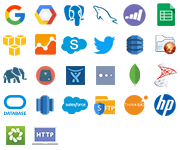
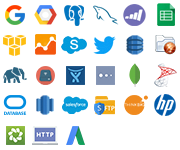
upd: add model, views, form, template for AdwordsDataSource

Changed region(s): [[0.3611, 0.8267, 0.4722, 0.9867]]

diff --git a/dmp/data_loader/templates/datasource/datasource_forms/adwords.html b/dmp/data_loader/templates/datasource/datasource_forms/adwords.html
@@ -1,0 +1,99 @@
+{% extends 'layout.html' %}
+{% load staticfiles %}
+{% block page_script %}
+<script src="{% static "js/datasource_crud.js" %}" type="text/javascript"></script>
+{% endblock %}
+{% block content %}
+
+    <div class="page datasources-add">
+        <div class="page-title">
+            <div class="content">
+                <h1>{% if form.instance.pk %}Update{% else %}Add{% endif %} Data Source - {{ provider.name }}</h1>
+            </div>
+        </div>
+
+        <div class="page-content">
+            <div class="content">
+
+                <div class="box">
+                    <div class="form-note">
+                        <span class="fa fa-lock"></span>
+                        All sensitive information is encrypted before stored
+                    </div>
+                    <div class="row">
+                        <div class="col col-50">
+                            <form id="form-create" method="POST" action="" enctype="multipart/form-data">
+                                    {% for error in form.non_field_errors %}
+                                        <p class="errors">{{ error }}</p>
+                                    {% endfor %}
+                                {% csrf_token %}
+                                <div class="form-row">
+                                    <div class="form-label">Data Source Name:</div>
+                                    {% for error in form.name.errors %}
+                                        <p class="errors">{{ error }}</p>
+                                    {% endfor %}
+                                    {{ form.name }}
+                                </div>
+                                <div class="form-row">
+                                    <div class="form-label">Conditions:</div>
+                                    {% for error in details_form.conditions.errors %}
+                                        <p class="errors">{{ error }}</p>
+                                    {% endfor %}
+                                    {{ details_form.conditions }}
+                                </div>
+                                <div class="form-row">
+                                    <div class="form-label">
+                                        Fields:
+                                    </div>
+                                    {% for error in details_form.field_list.errors %}
+                                        <p class="errors">{{ error }}</p>
+                                    {% endfor %}
+                                    {{ details_form.field_list }}
+                                    <div class="form-note">
+                                        <b>Note:</b> Field values must be separated by a comma (i.e. "CampaignId, CampaignName").<br>
+                                        Default values: CampaignId, CampaignName, CampaignStatus, Year, Month,
+                                        ClickType, ActiveViewCpm, AllConversions.
+                                    </div>
+                                </div>
+                                <div class="form-row">
+                                    <div class="form-label">Report:</div>
+                                    {% for error in details_form.report_type.errors %}
+                                        <p class="errors">{{ error }}</p>
+                                    {% endfor %}
+                                    {{ details_form.report_type }}
+                                    <div class="form-note">
+                                        <b>Note:</b> Default - CAMPAIGN_PERFORMANCE_REPORT.
+                                    </div>
+                                </div>
+                                <div class="form-row">
+                                    <div class="form-label">Date:</div>
+                                    {% for error in details_form.date_range.errors %}
+                                        <p class="errors">{{ error }}</p>
+                                    {% endfor %}
+                                    {{ details_form.date_range }}
+                                    <div class="form-note">
+                                        <b>Note:</b> Default - LAST_30_DAYS.
+                                    </div>
+                                </div>
+
+                                <div class="form-row">
+                                    <div class="form-label">Key file:</div>
+                                    <div class="form-file">
+                                        <span id="file-text-lable" class="form-placeholder">{% if details_form.instance.oauth_key_file %} {{ details_form.instance.filename }} {% else %}Upload OAuth key file...{% endif %}</span>
+                                        {% for error in details_form.oauth_key_file.errors %}
+                                            <p class="errors">{{ error }}</p>
+                                        {% endfor %}
+                                        {{ details_form.oauth_key_file }}
+                                    </div>
+                                </div>
+                                <div class="form-buttons">
+                                    <a href="javascript:void(0);" onclick="document.getElementById('form-create').submit(); return false;" class="button button-green">{% if form.instance.pk %}Update{% else %}Save & Collect{% endif %}</a>
+                                </div>
+                            </form>
+                        </div>
+                    </div>
+                </div>
+            </div>
+        </div>
+    </div>
+{% endblock %}

diff --git a/dmp/data_loader/static/css/style.css b/dmp/data_loader/static/css/style.css
@@ -443,6 +443,11 @@ h1, h2, h3 {
 .icon-dynamodb{
 	background-position: -30px -90px;
 }
+
+.icon-adwords{
+	background-position: -60px -120px;
+}
+
 /* boxes */
 .box {
 	background: #fff;

diff --git a/dmp/data_loader/forms.py b/dmp/data_loader/forms.py
@@ -2,7 +2,7 @@ from django import forms
 from data_loader.models import DataSource, DataFlowSettings, AnalyticsDataSource, SpreadsheetsDataSource, \
     PostgreSQLDataSource, VerticaDataSource, JDBCDataSource, OracleDBDataSource, MongoDBDataSource, FTPDataSource, \
     SalesforceDataSource, HadoopDataSource, GoogleCloudDataSource, MarketoDataSource, DynamoDBDataSource, \
-    HTTPDataSource, TwitterDataSource, ZendeskDataSource
+    HTTPDataSource, TwitterDataSource, ZendeskDataSource, AdwordsDataSource
 from django.utils.translation import ugettext_lazy as _
 from django.core.validators import FileExtensionValidator
 
@@ -598,3 +598,37 @@ class ZendeskDataSourceForm(forms.ModelForm):
     class Meta:
         model = ZendeskDataSource
         fields = ('login_url', 'username', 'password', 'target')
+
+
+class AdwordsDataSourceForm(forms.ModelForm):
+
+    conditions = forms.CharField(max_length=255, widget=forms.TextInput(
+        attrs={'class': 'form-input',
+               'placeholder': _('Query condition list (e.g. - "CampaignStatus IN")'),
+               'maxlength': 255}))
+
+    field_list = forms.CharField(max_length=255, widget=forms.TextInput(
+        attrs={'class': 'form-input',
+               'placeholder': _('Field list to query'),
+               'maxlength': 255}))
+
+    date_range = forms.CharField(max_length=255, widget=forms.TextInput(
+        attrs={'class': 'form-input',
+               'placeholder': _('Date range'),
+               'maxlength': 255}))
+
+    report_type = forms.CharField(max_length=255, widget=forms.TextInput(
+        attrs={'class': 'form-input',
+               'placeholder': _('Report type'),
+               'maxlength': 255}))
+
+    oauth_key_file = forms.FileField(widget=forms.FileInput(attrs={'class': 'form-input'}),
+                                     validators=[FileExtensionValidator(allowed_extensions=['json', 'yml', 'xml'])])
+
+    def __init__(self, *args, **kwargs):
+        self.request = kwargs.pop("request")
+        super(AdwordsDataSourceForm, self).__init__(*args, **kwargs)
+
+    class Meta:
+        model = AdwordsDataSource
+        fields = ('conditions', 'field_list', 'date_range', 'report_type', 'oauth_key_file')

diff --git a/dmp/data_loader/migrations/0025_adwordsdatasource.py b/dmp/data_loader/migrations/0025_adwordsdatasource.py
@@ -1,0 +1,32 @@
+# -*- coding: utf-8 -*-
+# Generated by Django 1.11 on 2017-07-05 14:52
+from __future__ import unicode_literals
+
+from django.db import migrations, models
+import django.db.models.deletion
+
+
+class Migration(migrations.Migration):
+
+    dependencies = [
+        ('data_loader', '0024_dynamodbdatasource_httpdatasource_twitterdatasource_zendeskdatasource'),
+    ]
+
+    operations = [
+        migrations.CreateModel(
+            name='AdwordsDataSource',
+            fields=[
+                ('data_source', models.OneToOneField(on_delete=django.db.models.deletion.CASCADE, primary_key=True, serialize=False, to='data_loader.DataSource')),
+                ('conditions', models.CharField(max_length=255, verbose_name='Query condition list')),
+                ('field_list', models.CharField(max_length=255, verbose_name='Field list to query')),
+                ('date_range', models.CharField(max_length=255, verbose_name='Date range')),
+                ('report_type', models.CharField(max_length=255, verbose_name='Report type')),
+                ('oauth_key_file', models.FileField(default=None, upload_to='file_uploads', verbose_name='OAuth2 keyfile')),
+            ],
+            options={
+                'verbose_name': 'Adwords Data source',
+                'verbose_name_plural': 'Adwords Data sources',
+            },
+            bases=('data_loader.datasource',),
+        ),
+    ]

diff --git a/dmp/data_loader/urls.py b/dmp/data_loader/urls.py
@@ -18,6 +18,7 @@ from data_loader.views.twitter import TwitterDataSourceCreateView, TwitterDataSo
 from data_loader.views.dynamodb import DynamoDBDataSourceCreateView, DynamoDBDataSourceUpdateView
 from data_loader.views.http import HTTPDataSourceCreateView, HTTPDataSourceUpdateView
 from data_loader.views.zendesk import ZendeskDataSourceCreateView, ZendeskDataSourceUpdateView
+from data_loader.views.adwords import AdwordsDataSourceCreateView, AdwordsDataSourceUpdateView
 
 urlpatterns = [
     url(r'^$', DataSourceListView.as_view(), name='datasource-list'),
@@ -141,6 +142,11 @@ urlpatterns = [
         name='teradata-datasource-create'),
     url(r'teradata-update/(?P<pk>[0-9]+)/$', PostgreSQLDataSourceUpdateView.as_view(),
         name='teradata-datasource-update'),
+
+    url(r'adwords-create/(?P<provider_id>[0-9]+)/$', AdwordsDataSourceCreateView.as_view(),
+        name='adwords-datasource-create'),
+    url(r'adwords-update/(?P<pk>[0-9]+)/$', AdwordsDataSourceUpdateView.as_view(),
+        name='adwords-datasource-update'),
 
     url(r'create/(?P<provider_id>[0-9]+)/$', DataSourceCreateView.as_view(), name='datasource-create'),
     url(r'update/(?P<pk>[0-9]+)/$', DataSourceUpdateView.as_view(), name='datasource-update'),

diff --git a/dmp/data_loader/models/adwords.py b/dmp/data_loader/models/adwords.py
@@ -1,0 +1,26 @@
+import os
+from django.db import models
+from .models import DataSource
+
+
+class AdwordsDataSource(DataSource):
+    data_source = models.OneToOneField(DataSource)
+    conditions = models.CharField('Query condition list', max_length=255)
+    field_list = models.CharField('Field list to query', max_length=255)
+    date_range = models.CharField('Date range', max_length=255)
+    report_type = models.CharField('Report type', max_length=255)
+    oauth_key_file = models.FileField('OAuth2 keyfile', upload_to='file_uploads', default=None)
+
+    class Meta:
+        verbose_name = 'Adwords Data source'
+        verbose_name_plural = 'Adwords Data sources'
+
+    def filename(self):
+        return os.path.basename(self.oauth_key_file.name)
+
+    def create_config_file(self):
+        pass
+
+    def update_config_file(self):
+        pass
+

diff --git a/dmp/data_loader/views/adwords.py b/dmp/data_loader/views/adwords.py
@@ -1,0 +1,19 @@
+from data_loader.forms import AdwordsDataSourceForm
+from data_loader.views import DataSourceCreateView, DataSourceUpdateView
+from data_loader.models import AdwordsDataSource
+
+
+class AdwordsDataSourceCreateView(DataSourceCreateView):
+
+    def get_details_form_class(self):
+        return AdwordsDataSourceForm
+
+
+class AdwordsDataSourceUpdateView(DataSourceUpdateView):
+    details_model_class = AdwordsDataSource
+
+    def get_detailed_data_source_object(self):
+        return self.details_model_class.objects.get(data_source=self.object)
+
+    def get_details_form_class(self):
+        return AdwordsDataSourceForm

diff --git a/dmp/data_loader/models/__init__.py b/dmp/data_loader/models/__init__.py
@@ -14,4 +14,5 @@ from .twitter import TwitterDataSource
 from .dynamobd import DynamoDBDataSource
 from .zendesk import ZendeskDataSource
 from .http import HTTPDataSource
+from .adwords import AdwordsDataSource
 from .models import DataSource, DataProvider, DataFlowSettings
